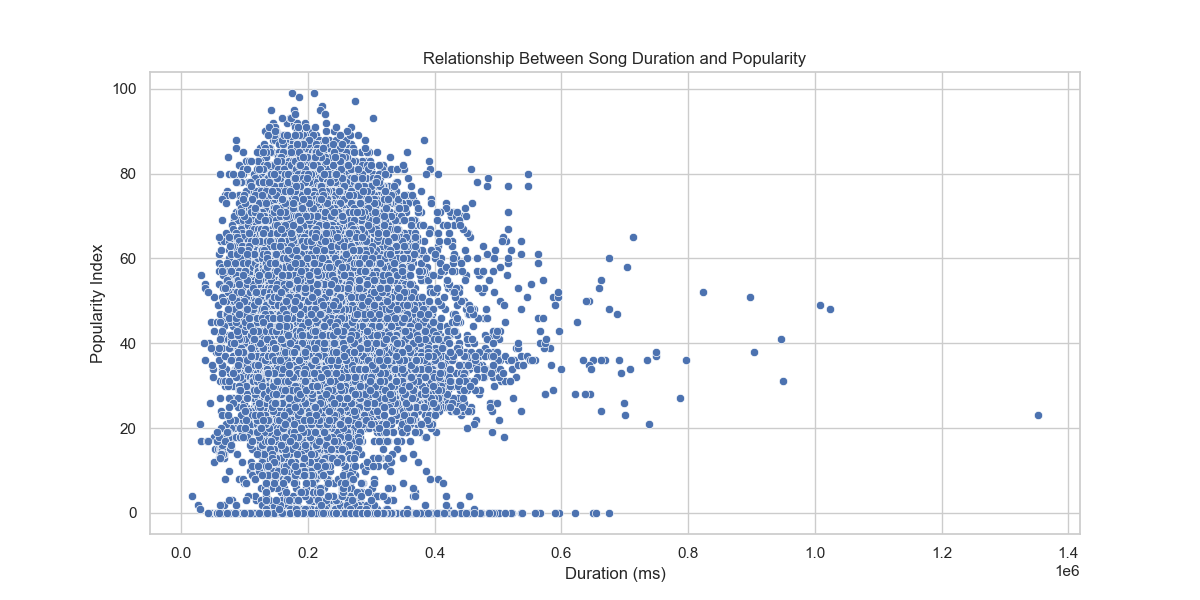
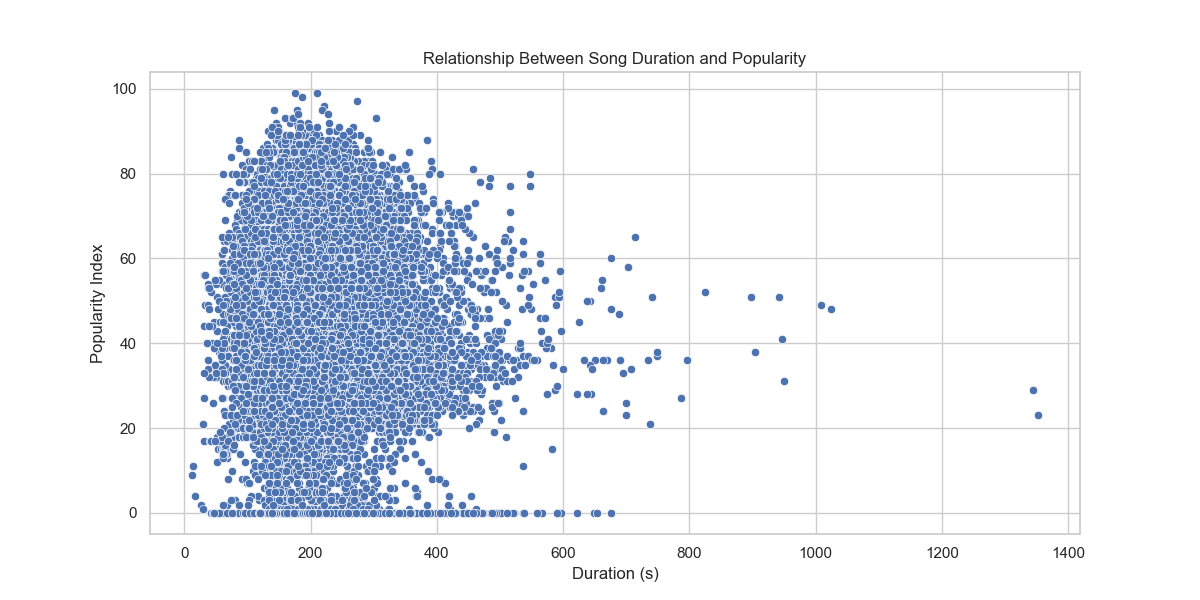
Reprise

diff --git a/vizualisation.py b/vizualisation.py
@@ -2,8 +2,8 @@ import pandas as pd
 import matplotlib.pyplot as plt
 import seaborn as sns
 from collect_data import load_database
-
-
+from scipy.stats import pearsonr
+from sklearn.preprocessing import MinMaxScaler
 def plot_correlation_heatmap(tracks_df):
     """
     Generates a correlation heatmap for numeric features of tracks DataFrame.
@@ -69,14 +69,30 @@ def plot_duration_vs_popularity(tracks_df):
     Returns:
     - None
     """
-    plt.figure(figsize=(12, 6))
-    sns.scatterplot(x='duration_ms', y='popularity', data=tracks_df)
-    plt.title('Relationship Between Song Duration and Popularity')
-    plt.xlabel('Duration (ms)')
-    plt.ylabel('Popularity Index')
-    plt.savefig('duration_vs_popularity.png')
-    plt.show()
+    tracks_df['duration_s'] = tracks_df['duration_ms'] / 1000
 
+    # Filter the relevant range
+    filtered_df = tracks_df[(tracks_df['duration_s'] >= 0) & (tracks_df['duration_s'] <= 800)]
+
+    # Normalize the duration
+    scaler = MinMaxScaler()
+    filtered_df['duration_s_scaled'] = scaler.fit_transform(filtered_df[['duration_s']])
+
+    # Create duration bins
+    duration_bins = pd.cut(filtered_df['duration_s_scaled'], bins=20)  # 20 bins for normalized duration
+
+    # Calculate average popularity for each bin
+    avg_popularity_by_bin = filtered_df.groupby(duration_bins)['popularity'].mean().reset_index()
+
+    # Plotting
+    plt.figure(figsize=(12, 6))
+    sns.lineplot(x=avg_popularity_by_bin['duration_s_scaled'].apply(lambda x: x.mid), y=avg_popularity_by_bin['popularity'])
+    plt.title('Average Song Popularity by Normalized Duration Range')
+    plt.xlabel('Normalized Duration Range (0 to 1)')
+    plt.ylabel('Average Popularity Index')
+    plt.grid(True)
+    plt.savefig('avg_popularity_by_normalized_duration_range.png')
+    plt.show()
 
 def plot_audio_features_vs_popularity(tracks_df):
     """
@@ -88,24 +104,30 @@ def plot_audio_features_vs_popularity(tracks_df):
     """
     audio_features = ['danceability', 'energy', 'speechiness', 'acousticness', 'instrumentalness', 'liveness',
                       'valence', 'tempo']
-    plt.figure(figsize=(14, 8))
+    for feature in audio_features:
+        plt.figure(figsize=(8, 6))
 
-    for i, feature in enumerate(audio_features):
-        plt.subplot(3, 3, i + 1)
-        sns.kdeplot(
-            data=tracks_df, x=feature, y='popularity',
-            fill=True, cmap="viridis", thresh=0, levels=100
-        )
-        plt.title(f'{feature.capitalize()} vs Popularity')
+        # Create bins for the feature
+        if feature == 'tempo':
+            bins = pd.cut(tracks_df[feature], bins=range(0, 250, 10))
+        else:
+            bins = pd.cut(tracks_df[feature], bins=20)  # 20 bins for features between 0 and 1
+
+        # Calculate the average popularity for each bin
+        avg_popularity_by_bin = tracks_df.groupby(bins)['popularity'].mean().reset_index()
+
+        # Plotting
+        sns.lineplot(x=avg_popularity_by_bin[feature].apply(lambda x: x.mid), y=avg_popularity_by_bin['popularity'])
+
+        plt.title(f'{feature.capitalize()} vs Average Popularity')
         plt.xlabel(feature.capitalize())
-        plt.ylabel('Popularity Index')
+        plt.ylabel('Average Popularity Index')
 
-    plt.tight_layout()
-    plt.savefig('audio_features_vs_popularity_heatmap.png')
-    plt.show()
+        # Save each plot as a separate image file
+        plt.savefig(f'{feature}_vs_avg_popularity.png')
+        plt.show()
 
-
-def plot_popularity_by_album_type(tracks_df, artist_df, top_n_genres=20):
+def plot_popularity_by_album_type(tracks_df, artist_df, top_n_genres=10):
     """
     Plots the average song popularity by album type and genre based on artist associations.
     Args:
@@ -160,19 +182,25 @@ def plot_popularity_by_album_type(tracks_df, artist_df, top_n_genres=20):
     popularity_by_album_genre = popularity_by_album_genre.groupby(['album_type', 'genre'])[
         'popularity'].mean().reset_index()
 
-    plt.figure(figsize=(12, 8))
+    plt.figure(figsize=(14, 10))
     sns.barplot(x='album_type', y='popularity', hue='genre', data=popularity_by_album_genre, palette='Set3')
     plt.title('Average Song Popularity by Album Type and Genre')
     plt.xlabel('Album Type')
     plt.ylabel('Average Popularity Index')
     plt.xticks(rotation=45)
-    plt.legend(title='Genre', loc='upper right')
+    plt.legend(title='Genre', bbox_to_anchor=(1.05, 1), loc='upper left')
+    plt.tight_layout()
     plt.savefig('popularity_by_album_type_and_genre.png')
     plt.show()
 
     # Print the number of distinct genres being displayed
     displayed_genres = len(top_genres_set) + 1  # Including 'Other'
     print(f"Number of distinct genres being displayed: {displayed_genres}")
+
+    # Calculate and print the average popularity for each album type
+    avg_popularity_by_album_type = popularity_by_album_genre.groupby('album_type')['popularity'].mean()
+    print("\nAverage Popularity by Album Type:")
+    print(avg_popularity_by_album_type)
 
 
 
@@ -196,12 +224,72 @@ def plot_popularity_over_time(tracks_df):
     plt.tight_layout()
     plt.savefig('popularity_over_ime.png')
     plt.show()
+
+
 def find_documents_with_error_field(collection_name):
         cursor = collection_name.find({'audio': {'$exists': True}})
         print(len(cursor))
         # Print each document's _id that has the 'error' field
         # for document in cursor:
         #     print(f"Document _id with 'error' field: {document['id']}")
+
+
+def plot_genre_popularity_over_time(tracks_df, artist_df, genres_to_plot):
+    """
+    Plots the average song popularity over time for specified genres.
+    Args:
+    - tracks_df (pd.DataFrame): DataFrame containing track data with 'album', 'artists', 'popularity', and 'release_date' columns.
+    - artist_df (pd.DataFrame): DataFrame containing artist data with 'id', 'genres' columns.
+    - genres_to_plot (list): List of genres to plot.
+    Returns:
+    - None
+    """
+    # Map artist IDs to their genres
+    artist_genres = {}
+    for index, row in artist_df.iterrows():
+        artist_genres[row['id']] = row['genres']
+
+    def get_artist_genres(artist_ids):
+        genres = set()
+        for artist_id in artist_ids:
+            if artist_id in artist_genres:
+                genres.update(artist_genres[artist_id])
+        return list(genres)
+
+    tracks_df['artist_genres'] = tracks_df['artists'].apply(
+        lambda artists: get_artist_genres([artist['id'] for artist in artists])
+    )
+
+    # Filter tracks by genres of interest
+    def filter_genres(genres):
+        return [genre for genre in genres if genre in genres_to_plot]
+
+    tracks_df['filtered_genres'] = tracks_df['artist_genres'].apply(filter_genres)
+    tracks_filtered = tracks_df[
+        tracks_df['filtered_genres'].apply(len) > 0].copy()  # Create a copy to avoid SettingWithCopyWarning
+
+    # Convert release date to datetime
+    tracks_filtered.loc[:, 'release_date'] = pd.to_datetime(tracks_filtered['album'].apply(lambda x: x['release_date']))
+    tracks_filtered.loc[:, 'year'] = tracks_filtered['release_date'].dt.year
+
+    # Explode genres to have one row per genre
+    tracks_exploded = tracks_filtered.explode('filtered_genres')
+
+    # Group by year and genre to calculate average popularity
+    popularity_over_time = tracks_exploded.groupby(['year', 'filtered_genres'])['popularity'].mean().reset_index()
+
+    # Plotting
+    plt.figure(figsize=(12, 8))
+    sns.lineplot(x='year', y='popularity', hue='filtered_genres', data=popularity_over_time, marker='o')
+    plt.title('Average Song Popularity Over Time by Genre')
+    plt.xlabel('Year')
+    plt.ylabel('Average Popularity Index')
+    plt.legend(title='Genre')
+    plt.grid(True)
+    plt.tight_layout()
+    plt.savefig('genre_popularity_over_time.png')
+    plt.show()
+
 
 
 if __name__ == '__main__':
@@ -241,8 +329,10 @@ if __name__ == '__main__':
     # plot_correlation_heatmap(tracks_df)
     # plot_popularity_distribution(tracks_df)
     # plot_popularity_by_genre_count(artist_df)
-    # plot_duration_vs_popularity(tracks_df)
+    plot_duration_vs_popularity(tracks_df)
     # plot_audio_features_vs_popularity(tracks_df)
-    plot_popularity_by_album_type(tracks_df, artist_df)
+    # plot_popularity_by_album_type(tracks_df, artist_df)
     # plot_popularity_over_time(tracks_df)
     #
+    # genres_to_plot = ['pop', 'rock', 'rap', 'r&b']
+    # plot_genre_popularity_over_time(tracks_df, artist_df, genres_to_plot)
